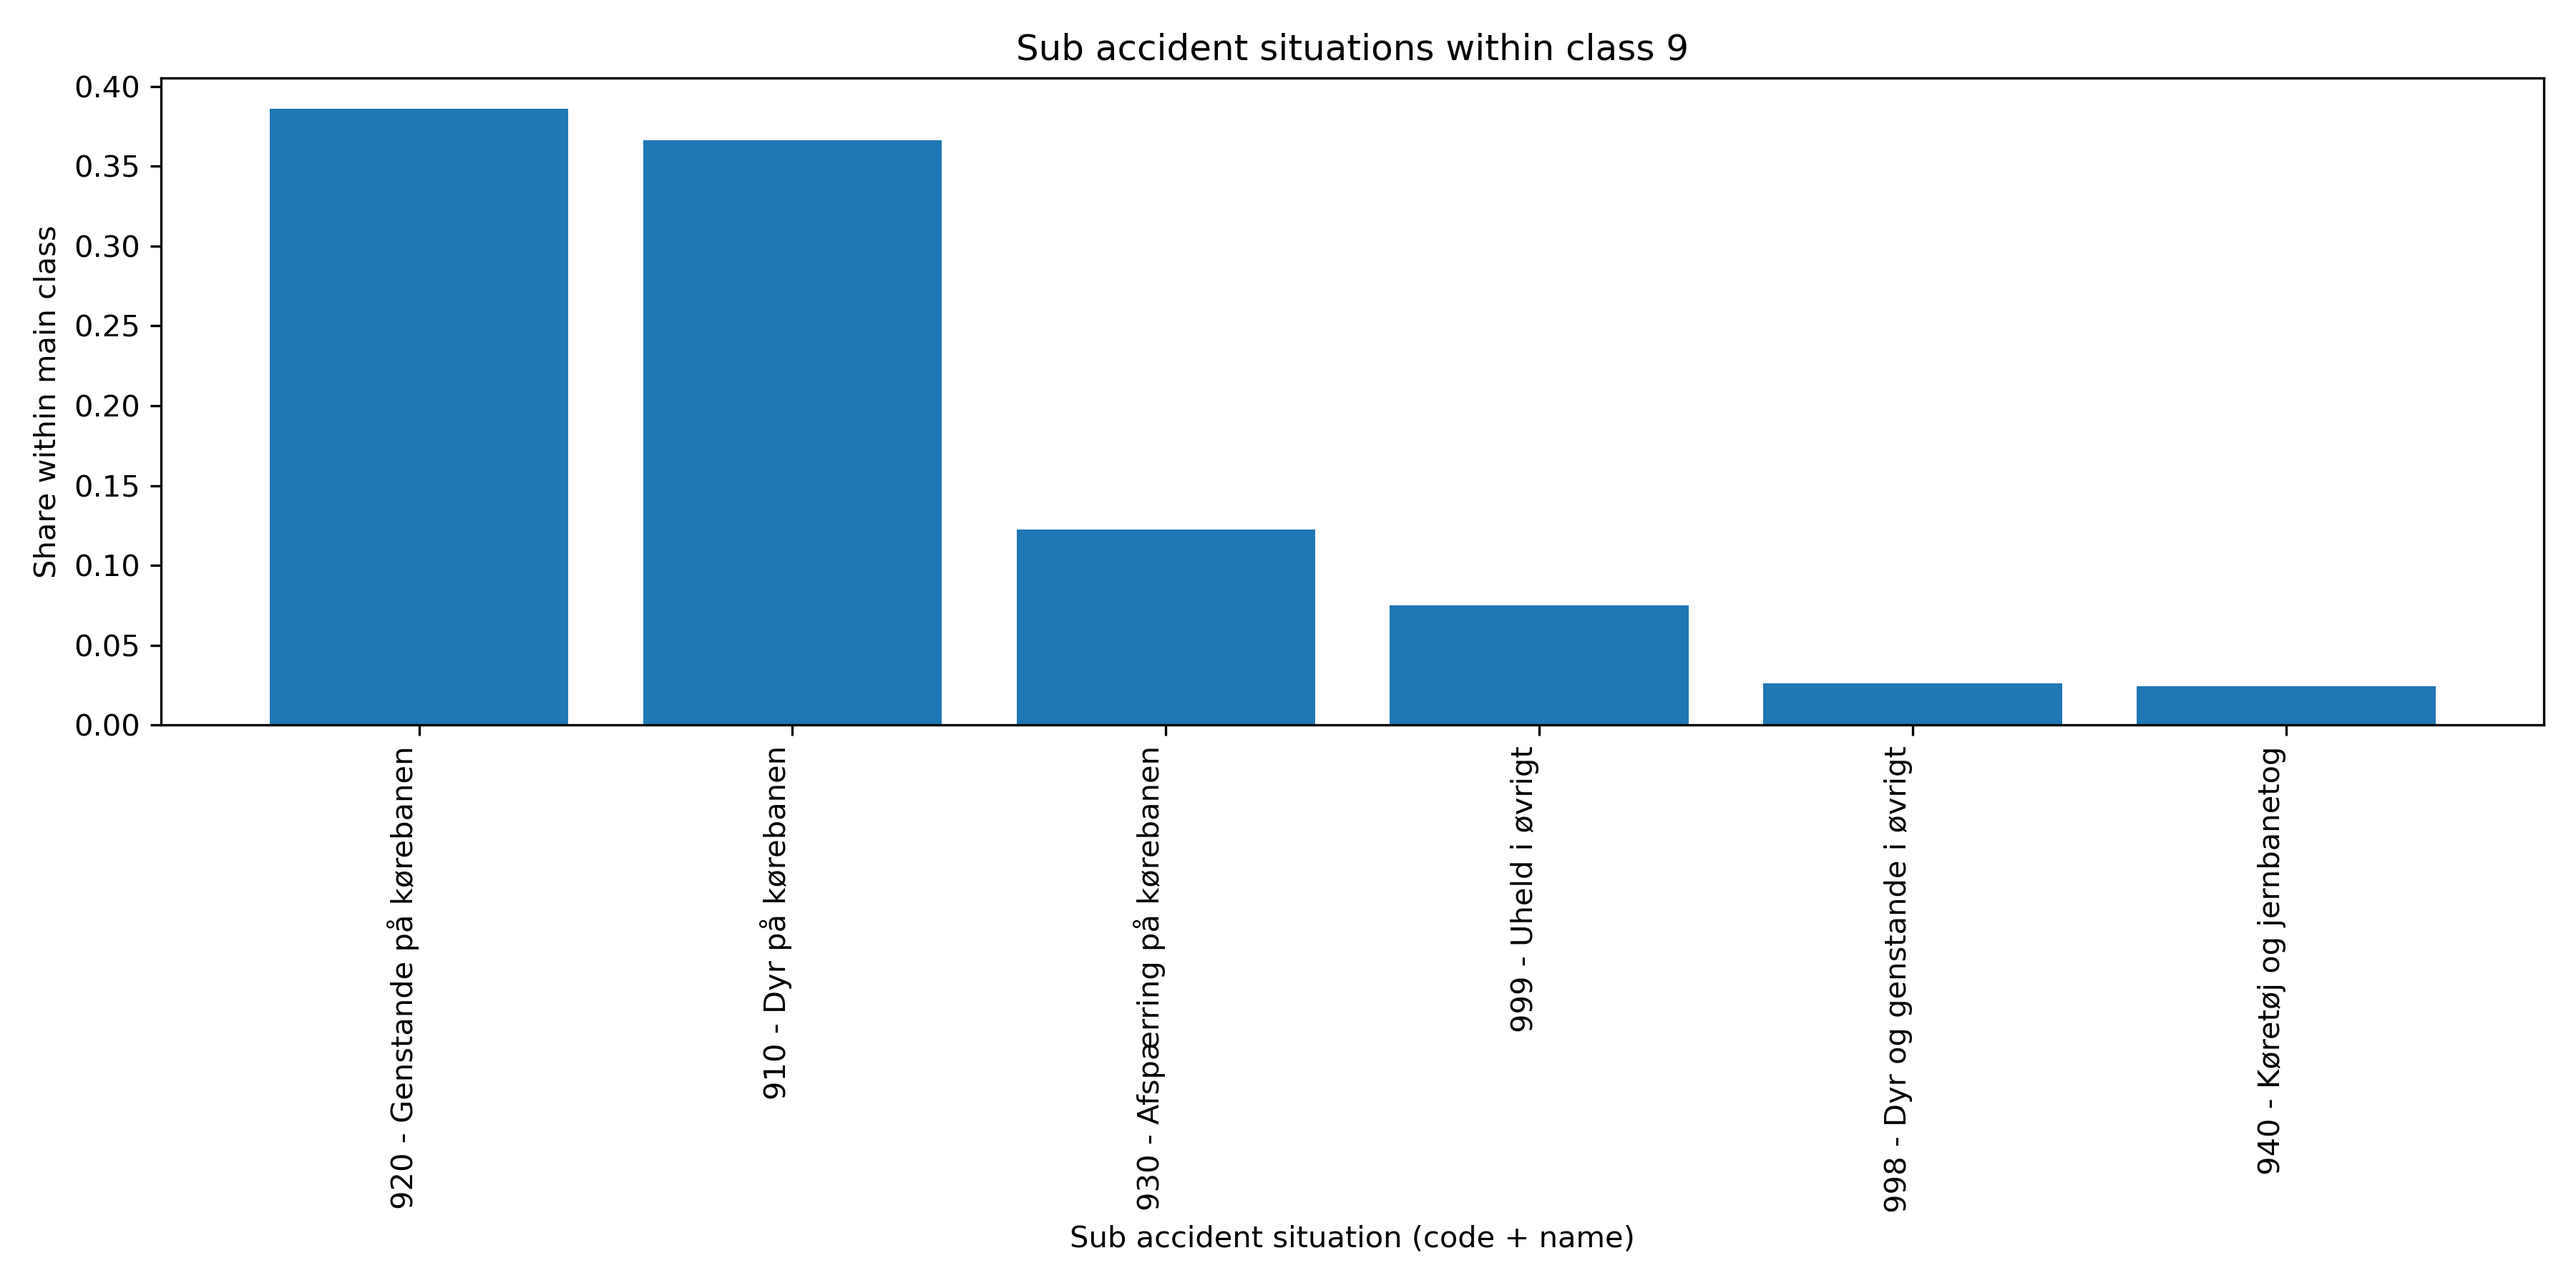
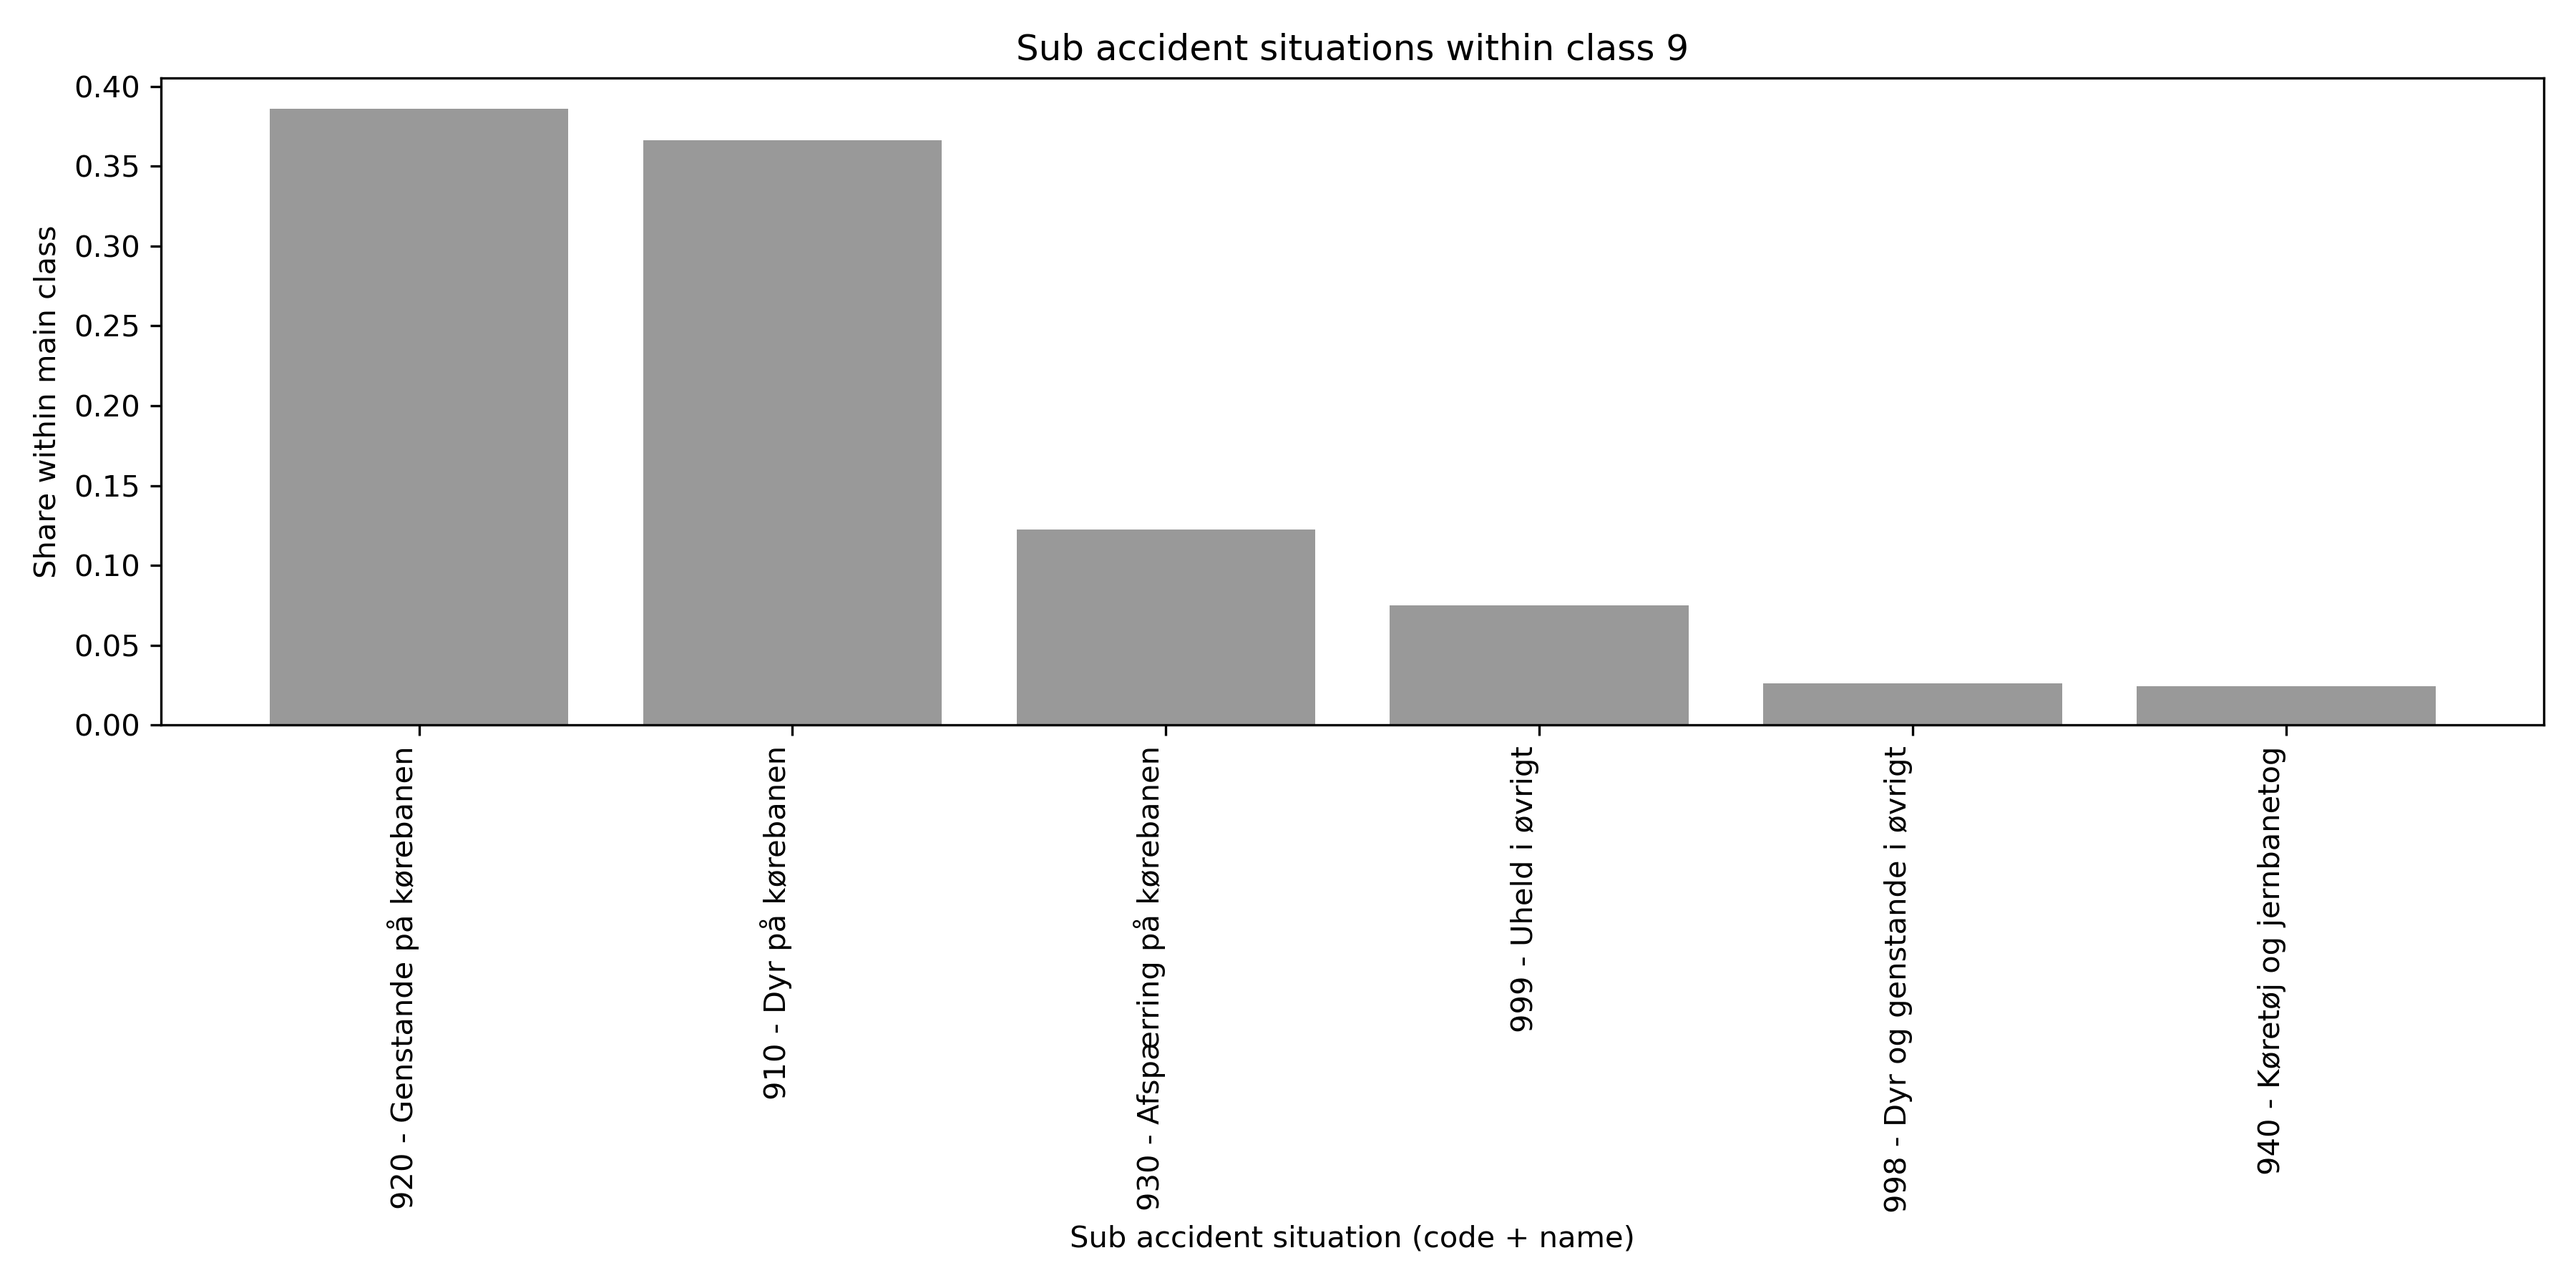
change of color

Changed region(s): [[0.2489, 0.0933, 0.6533, 0.56], [0.0933, 0.0622, 0.2178, 0.56], [0.6844, 0.5289, 0.9644, 0.56]]

diff --git a/data/data_analysis.py b/data/data_analysis.py
@@ -122,7 +122,8 @@ print(classification_dist)
 #plotting the distribution of accident classifications
 plt.figure()
 plt.bar(classification_dist["report_category"],
-        classification_dist["count"])
+        classification_dist["count"], color="gray", alpha=0.8)
+
 plt.xticks(rotation=45, ha="right")
 plt.ylabel("Number of reports")
 plt.title("Distribution of accident classifications")
@@ -199,8 +200,8 @@ print(main_class_dist)
 plt.figure()
 plt.bar(
     main_class_dist["main_situation_class"].astype(str).to_numpy(),
-    main_class_dist["count"].to_numpy()
-)
+    main_class_dist["count"].to_numpy(),color="gray", alpha=0.8)
+
 plt.xlabel("Main situation class (hundreds bucket)")
 plt.ylabel("Number of reports")
 plt.title("Distribution of main accident situation classes")
@@ -259,7 +260,7 @@ for cls, grp in sub_by_class.groupby("main_situation_class"):
     )
 
     plt.figure()
-    plt.bar(labels.to_numpy(), grp["share_within_class"].to_numpy())
+    plt.bar(labels.to_numpy(), grp["share_within_class"].to_numpy(),color="gray", alpha=0.8)
     plt.xticks(rotation=90, ha="right")
     plt.xlabel("Sub accident situation (code + name)")
     plt.ylabel("Share within main class")
@@ -303,6 +304,75 @@ plt.xticks(main_class_year_pivot.index.to_numpy(), rotation=45)
 plt.tight_layout()
 plt.savefig(OUTPUT_DIR / "main_situation_class_counts_over_time.png", dpi=300)
 plt.close()
+
+
+# ---------------------------------------------------------------------
+# Normalized entropy of sub-situations within each main situation
+# ---------------------------------------------------------------------
+
+# Count reports per main × sub
+sub_dist = (
+    df.groupby(["main_situation_class", "encoded_accident_situation"])
+      .size()
+      .reset_index(name="count")
+)
+
+entropy_results = []
+
+for main_class, group in sub_dist.groupby("main_situation_class"):
+    
+    counts = group["count"].to_numpy()
+    total = counts.sum()
+    
+    # Convert to probabilities
+    p = counts / total
+    
+    # Shannon entropy
+    H = -np.sum(p * np.log(p))
+    
+    # Number of sub-situations
+    k = len(counts)
+    
+    # Normalized entropy (avoid division by zero)
+    if k > 1:
+        H_norm = H / np.log(k)
+    else:
+        H_norm = 0.0
+    
+    entropy_results.append({
+        "main_situation_class": main_class,
+        "n_sub_situations": k,
+        "total_reports": total,
+        "entropy": H,
+        "normalized_entropy": H_norm
+    })
+
+entropy_df = pd.DataFrame(entropy_results).sort_values("main_situation_class")
+
+print(entropy_df.round(4))
+
+sub_counts = (
+    df.groupby("main_situation_class")["encoded_accident_situation"]
+      .nunique()
+      .reset_index(name="n_sub_situations")
+)
+
+print(sub_counts)
+
+dominance = []
+
+for main_class, group in sub_dist.groupby("main_situation_class"):
+    counts = group["count"].to_numpy()
+    total = counts.sum()
+    max_share = counts.max() / total
+    
+    dominance.append({
+        "main_situation_class": main_class,
+        "largest_sub_share": max_share
+    })
+
+dominance_df = pd.DataFrame(dominance)
+print(dominance_df.round(4))
 
 # ---------------------------------------------------------------------
 # Distribution of main situation classes by accident classification
@@ -362,7 +432,10 @@ plt.close()
 # ---------------------------------------------------------------------
 
 overall_narrative_share = df["has_narrative"].mean()
+overall_narrative_share_std = df["has_narrative"].std()
+
 print(f"Overall share with narrative: {overall_narrative_share:.2%}")
+print(f"Standard deviation of narrative availability: {overall_narrative_share_std:.2%}")
 
 narrative_by_year = (
     df.groupby("year")["has_narrative"]
@@ -414,8 +487,6 @@ df_full = df.copy()
 df_text = df_full.loc[df_full["has_narrative"]].copy()
 
 
-
-
 # ---------------------------------------------------------------------
 # Narrative length measures
 # ---------------------------------------------------------------------
@@ -435,6 +506,15 @@ length_summary = df_text[["n_chars", "n_words", "n_sentences"]].describe(
 print(length_summary)
 
 plt.figure()
+plt.hist(df_text["n_chars"].to_numpy(), bins=50)
+plt.xlabel("Number of characters")
+plt.ylabel("Frequency")
+plt.title("Distribution of VD narrative length (characters)")
+plt.tight_layout()
+plt.savefig(OUTPUT_DIR / "vd_narrative_char_length_distribution.png", dpi=300)
+plt.close()
+
+plt.figure()
 plt.hist(df_text["n_words"].to_numpy(), bins=50)
 plt.xlabel("Number of words")
 plt.ylabel("Frequency")
@@ -442,7 +522,6 @@ plt.title("Distribution of VD narrative length (words)")
 plt.tight_layout()
 plt.savefig(OUTPUT_DIR / "vd_narrative_word_length_distribution.png", dpi=300)
 plt.close()
-
 
 plt.figure()
 plt.hist(df_text["n_sentences"].to_numpy(), bins=40)
@@ -475,6 +554,51 @@ short_narratives.to_csv(output_path, index=False)
 print(
     f"Saved {len(short_narratives)} VD narratives with fewer than 3 words to {output_path}"
 )
+
+df_text = df_text[df_text["n_words"] >= 3].copy()
+
+print(f"Remaining reports after exclusion: {len(df_text)}")
+
+# ---------------------------------------------------------------------
+# Short narratives (< 3 words) analysis
+# ---------------------------------------------------------------------
+
+# Most common short narratives
+short_text_counts = (
+    short_narratives["police_narrative"]
+    .value_counts()
+    .reset_index()
+)
+
+short_text_counts.columns = ["police_narrative", "count"]
+
+print(short_text_counts.head(20))
+
+short_by_category = (
+    short_narratives.groupby("report_category")
+    .size()
+    .reset_index(name="count")
+    .sort_values("count", ascending=False)
+)
+
+short_by_category["share_within_short"] = (
+    short_by_category["count"] / short_by_category["count"].sum()
+)
+
+print(short_by_category)
+
+short_by_main = (
+    short_narratives.groupby("main_situation_class")
+    .size()
+    .reset_index(name="count")
+    .sort_values("count", ascending=False)
+)
+
+short_by_main["share_within_short"] = (
+    short_by_main["count"] / short_by_main["count"].sum()
+)
+
+print(short_by_main)
 
 # ---------------------------------------------------------------------
 # Structural characteristics
@@ -519,6 +643,26 @@ plt.tight_layout()
 plt.savefig(OUTPUT_DIR / "vd_sentence_length_distribution.png", dpi=300)
 plt.close()
 
+
+# ---------------------------------------------------------------------
+# Scatter: sentence count vs average words per sentence
+# ---------------------------------------------------------------------
+
+plt.figure(figsize=(10, 6))
+
+plt.scatter(
+    df_text["n_sentences"].to_numpy(),
+    df_text["avg_sentence_length"].to_numpy(),
+    alpha=0.1  # low alpha because many points
+)
+
+plt.xlabel("Number of sentences per report")
+plt.ylabel("Average words per sentence")
+plt.title("Average words per sentence vs. total sentence count")
+plt.tight_layout()
+plt.savefig(OUTPUT_DIR / "vd_sentence_structure_scatter.png", dpi=300)
+plt.close()
+
 # ---------------------------------------------------------------------
 # Most frequent terms and expressions
 # ---------------------------------------------------------------------
@@ -559,7 +703,7 @@ top_words_df = pd.DataFrame(top_words, columns=["word", "count"])
 print(top_words_df)
 
 plt.figure()
-plt.bar(top_words_df["word"], top_words_df["count"])
+plt.bar(top_words_df["word"], top_words_df["count"],color="gray", alpha=0.8)
 plt.xticks(rotation=75)
 plt.xlabel("Word")
 plt.ylabel("Count")
@@ -591,7 +735,7 @@ top_bigrams_df = pd.DataFrame(
 print(top_bigrams_df)
 
 plt.figure()
-plt.bar(top_bigrams_df["bigram"], top_bigrams_df["count"])
+plt.bar(top_bigrams_df["bigram"], top_bigrams_df["count"],color="gray", alpha=0.8)
 plt.xticks(rotation=75)
 plt.xlabel("Bigram")
 plt.ylabel("Count")
@@ -628,8 +772,6 @@ plt.tight_layout()
 plt.savefig(OUTPUT_DIR / "vd_wordcloud.png", dpi=300)
 plt.close()
 
-
-
 # ---------------------------------------------------------------------
 #Average word count per year
 # ---------------------------------------------------------------------
@@ -649,7 +791,7 @@ x = avg_words_by_year.index.to_numpy()
 y = avg_words_by_year.to_numpy()
 
 plt.figure()
-plt.plot(x, y)
+plt.plot(x, y, color="red", linewidth=2.5)
 plt.xticks(years, rotation=45)
 plt.xlabel("Year")
 plt.ylabel("Average word count")
@@ -657,6 +799,7 @@ plt.title("Average VD narrative length per year")
 plt.tight_layout()
 plt.savefig(OUTPUT_DIR / "vd_avg_wordcount_by_year.png", dpi=300)
 plt.close()
+
 
 # ---------------------------------------------------------------------
 # Variation by accident classification
@@ -686,7 +829,7 @@ print(words_by_class)
 plt.figure()
 plt.bar(
     words_by_class["report_category"].astype(str),
-    words_by_class["avg_word_count"]
+    words_by_class["avg_word_count"],color="gray", alpha=0.8
 )
 plt.xticks(rotation=45)
 plt.xlabel("Accident classification")
